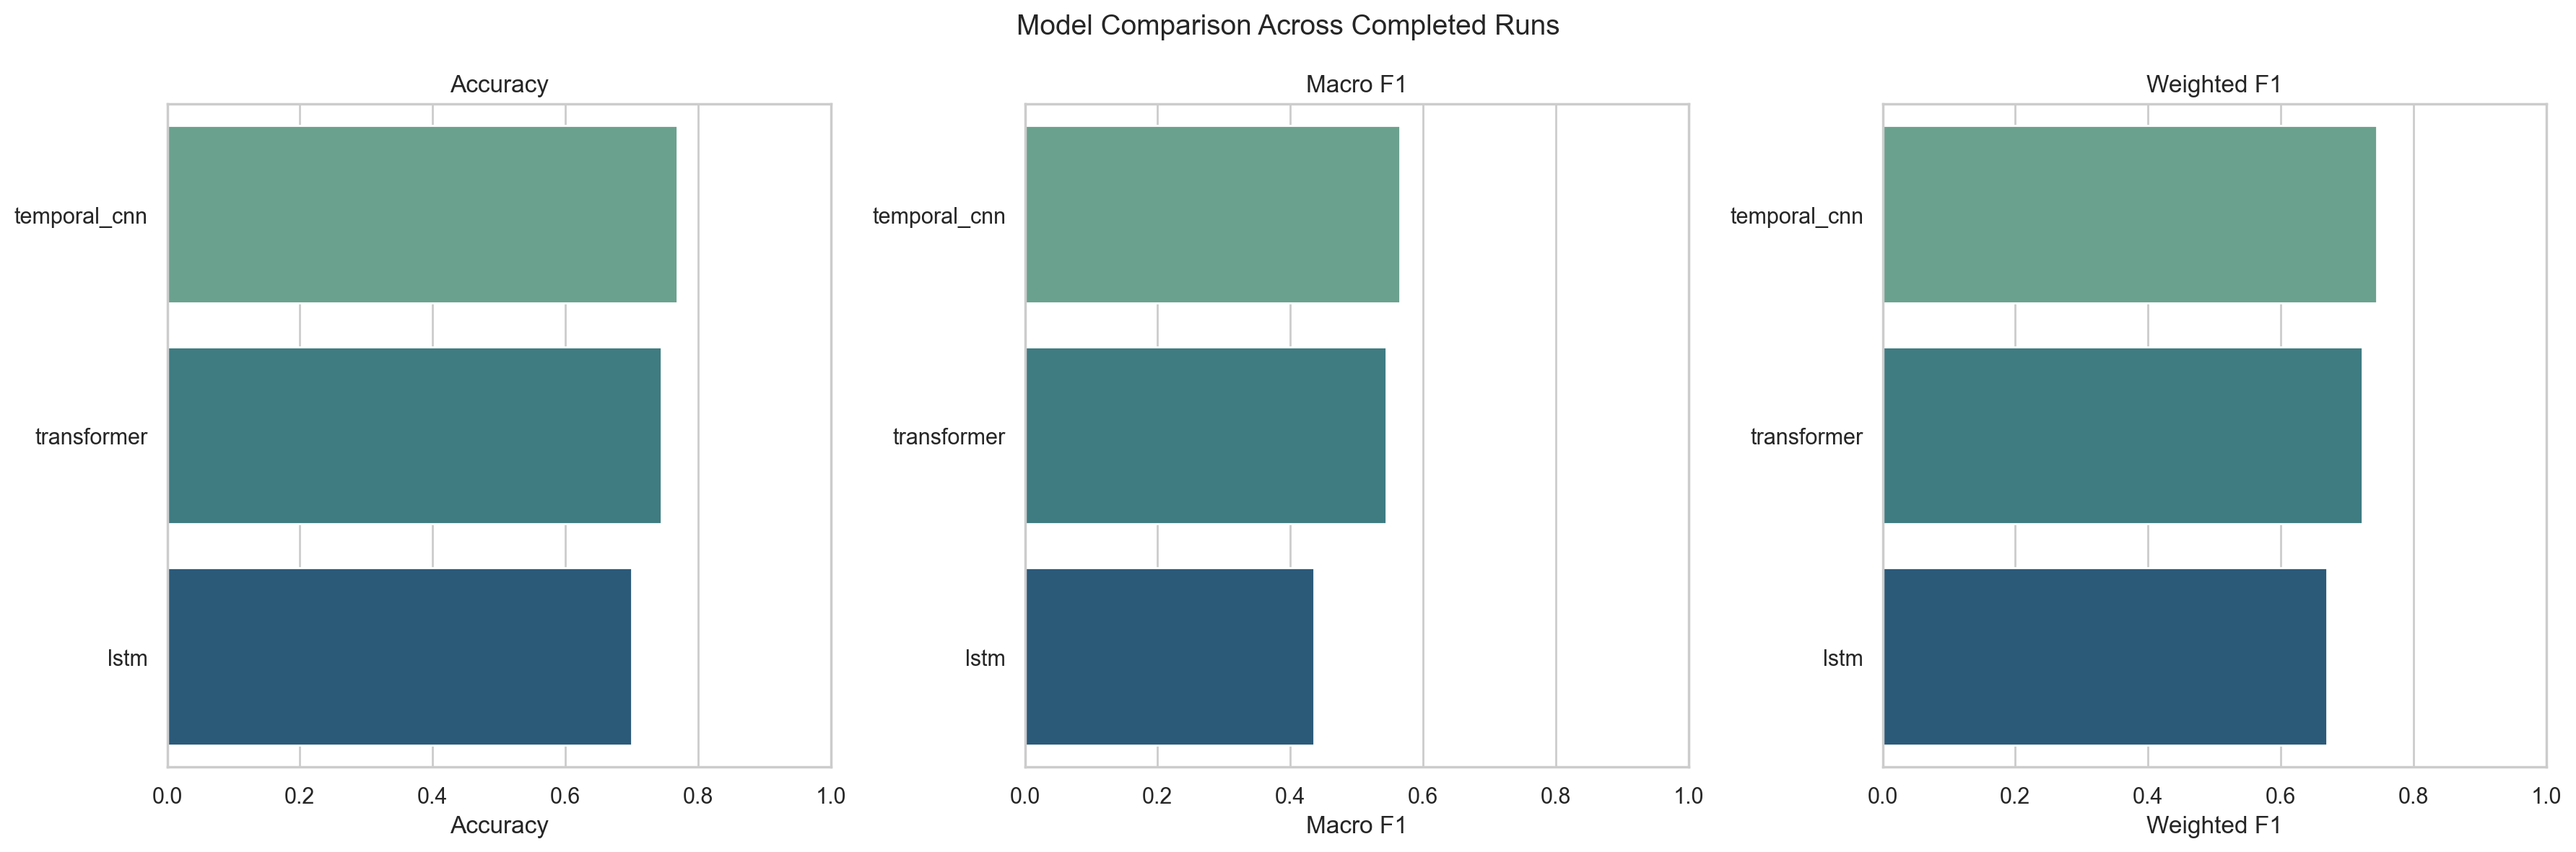
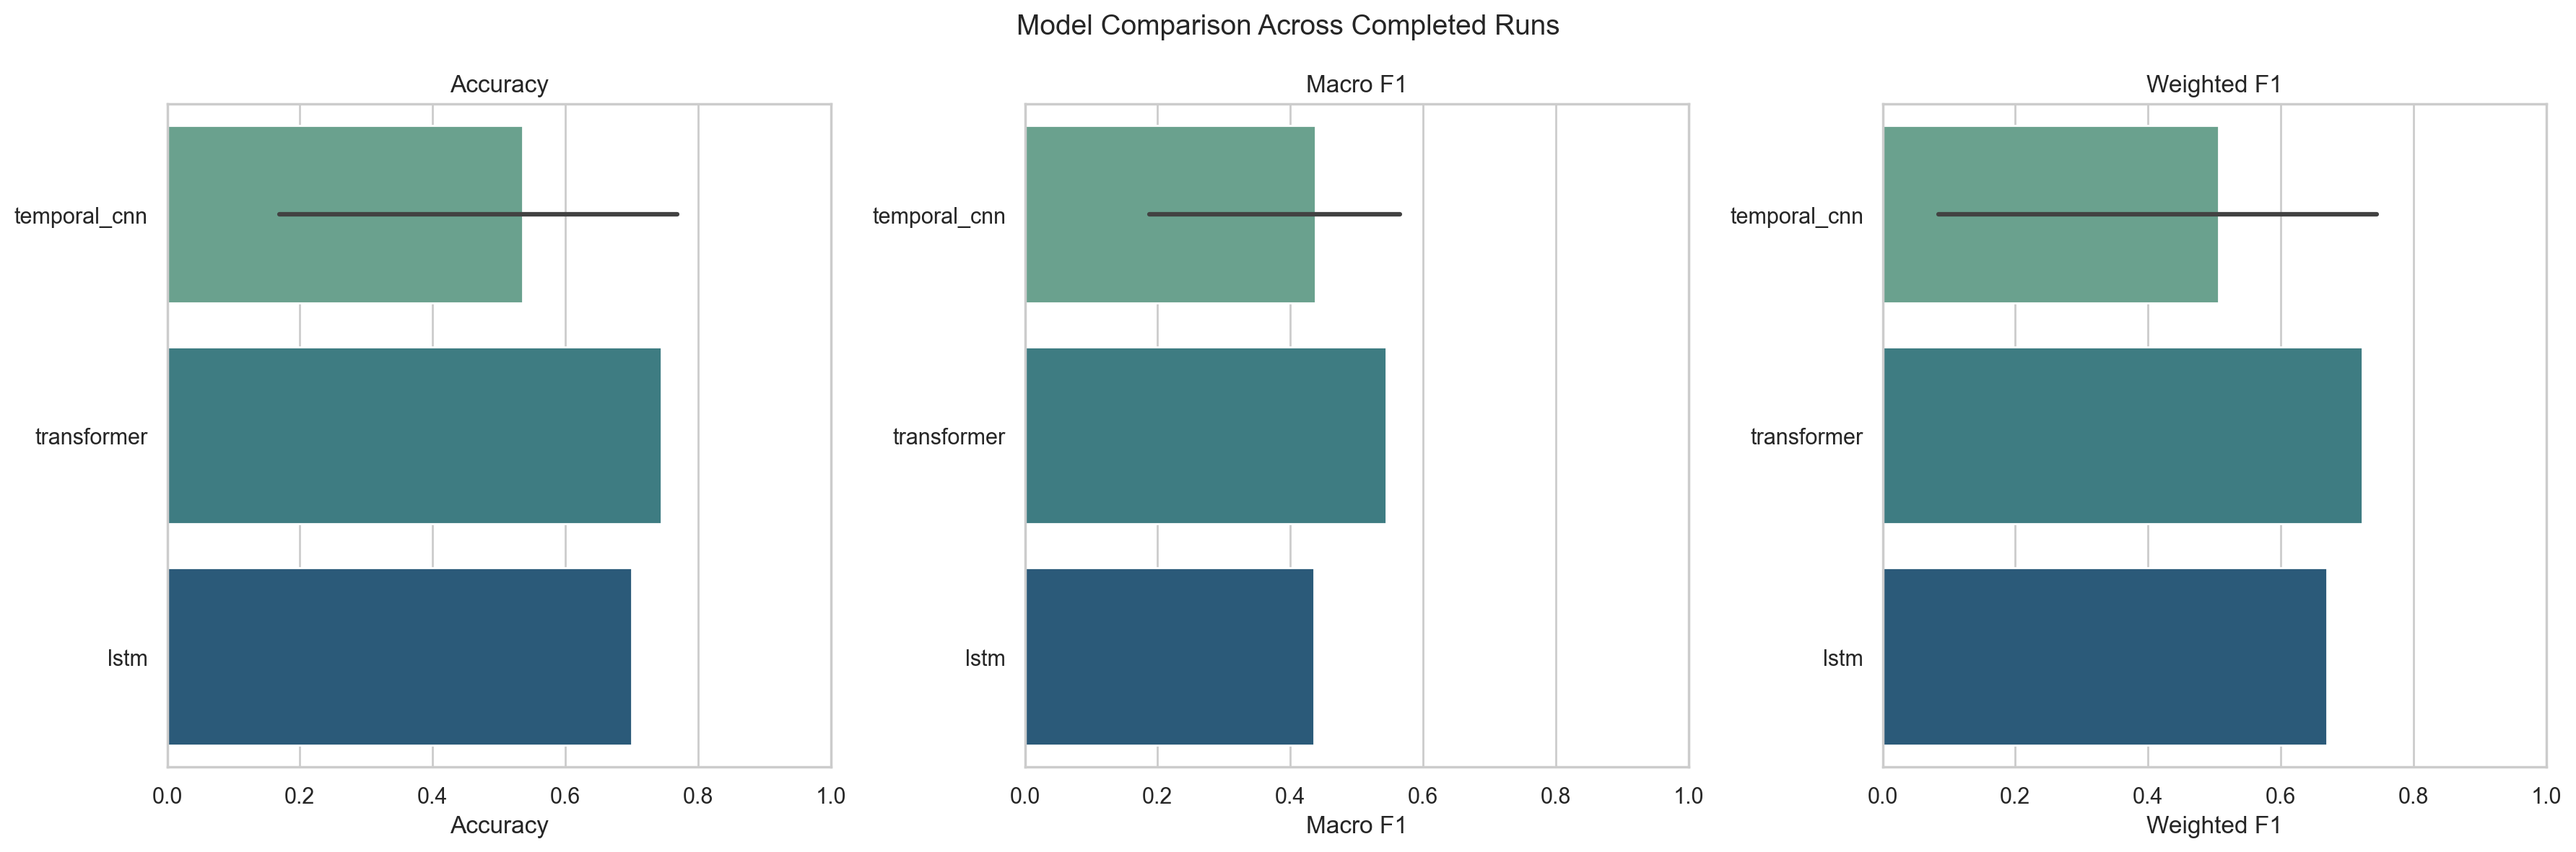
ordinal loss

Changed region(s): [[0.7466, 0.1219, 0.9333, 0.3658], [0.1244, 0.1219, 0.28, 0.3658], [0.4355, 0.1524, 0.56, 0.3658]]

diff --git a/src/paper_repro_train.py b/src/paper_repro_train.py
@@ -40,6 +40,27 @@ class FocalLoss(nn.Module):
         return focal.mean()
 
 
+class OrdinalEMDLoss(nn.Module):
+    """Ordinal loss via squared CDF distance between predicted and target classes."""
+
+    def __init__(self, *, weight: torch.Tensor | None = None) -> None:
+        super().__init__()
+        if weight is None:
+            self.register_buffer("weight", None, persistent=False)
+        else:
+            self.register_buffer("weight", weight.float(), persistent=False)
+
+    def forward(self, logits: torch.Tensor, targets: torch.Tensor) -> torch.Tensor:
+        probs = torch.softmax(logits, dim=1)
+        pred_cdf = torch.cumsum(probs, dim=1)
+        target_one_hot = F.one_hot(targets, num_classes=logits.shape[1]).float()
+        target_cdf = torch.cumsum(target_one_hot, dim=1)
+        loss_per_sample = torch.mean((pred_cdf - target_cdf) ** 2, dim=1)
+        if self.weight is not None:
+            loss_per_sample = loss_per_sample * self.weight[targets]
+        return loss_per_sample.mean()
+
+
 def compute_class_weights(y: np.ndarray) -> np.ndarray:
     """Compute inverse-frequency class weights normalized to mean 1."""
     class_counts = np.bincount(y.astype(np.int64))
@@ -72,6 +93,8 @@ def build_loss(
         return nn.CrossEntropyLoss(weight=weight_tensor), class_weights.tolist()
     if loss_name == "focal":
         return FocalLoss(gamma=focal_gamma, weight=weight_tensor), class_weights.tolist()
+    if loss_name == "ordinal":
+        return OrdinalEMDLoss(weight=weight_tensor), class_weights.tolist()
     raise ValueError(f"Unknown loss_name: {loss_name}")
 
 

diff --git a/tests/test_paper_repro_pipeline.py b/tests/test_paper_repro_pipeline.py
@@ -148,7 +148,7 @@ def test_model_factory_output_shapes() -> None:
     assert transformer_out.shape == (2, 4)
 
 
-def test_loss_factory_builds_weighted_and_focal_losses() -> None:
+def test_loss_factory_builds_weighted_focal_and_ordinal_losses() -> None:
     import torch
 
     y_train = np.array([0, 0, 1, 2, 2, 2, 3], dtype=np.int64)
@@ -177,6 +177,15 @@ def test_loss_factory_builds_weighted_and_focal_losses() -> None:
     assert focal_loss.__class__.__name__ == "FocalLoss"
     assert focal_weights is not None
 
+    ordinal_loss, ordinal_weights = build_loss(
+        y_train,
+        loss_name="ordinal",
+        focal_gamma=2.0,
+        device=torch.device("cpu"),
+    )
+    assert ordinal_loss.__class__.__name__ == "OrdinalEMDLoss"
+    assert ordinal_weights is not None
+
 
 def test_resolve_output_dir_uses_loss_specific_default_paths() -> None:
     assert resolve_output_dir(
@@ -197,3 +206,9 @@ def test_resolve_output_dir_uses_loss_specific_default_paths() -> None:
         loss_name="focal",
         focal_gamma=1.5,
     ) == Path("outputs/transformer_focal_g1p5")
+    assert resolve_output_dir(
+        None,
+        model_name="lstm",
+        loss_name="ordinal",
+        focal_gamma=2.0,
+    ) == Path("outputs/lstm_ordinal")

diff --git a/main.py b/main.py
@@ -52,6 +52,8 @@ def _format_loss_suffix(loss_name: str, focal_gamma: float) -> str:
         return "cross_entropy"
     if loss_name == "weighted_cross_entropy":
         return "weighted_cross_entropy"
+    if loss_name == "ordinal":
+        return "ordinal"
     if loss_name == "focal":
         gamma_str = str(focal_gamma).replace(".", "p")
         return f"focal_g{gamma_str}"
@@ -129,7 +131,7 @@ def build_parser() -> argparse.ArgumentParser:
     parser.add_argument("--patience", type=int, default=50)
     parser.add_argument(
         "--loss",
-        choices=["cross_entropy", "weighted_cross_entropy", "focal"],
+        choices=["cross_entropy", "weighted_cross_entropy", "focal", "ordinal"],
         default="cross_entropy",
     )
     parser.add_argument("--focal_gamma", type=float, default=2.0)

diff --git a/outputs/visualizations/temporal_cnn_weighted_ce/report.md b/outputs/visualizations/temporal_cnn_weighted_ce/report.md
@@ -1,0 +1,23 @@
+# temporal_cnn
+
+- Run folder: `temporal_cnn_weighted_ce`
+- Metrics file: `outputs\temporal_cnn_weighted_ce\metrics.json`
+- Accuracy: 0.6708
+- Macro F1: 0.5592
+- Weighted F1: 0.6909
+- Best epoch: 60
+
+## Classification Report
+
+```text
+              precision    recall  f1-score   support
+
+           0       0.31      0.57      0.40        35
+           1       0.47      0.63      0.54       221
+           2       0.88      0.68      0.76       847
+           3       0.41      0.75      0.53       118
+
+    accuracy                           0.67      1221
+   macro avg       0.52      0.66      0.56      1221
+weighted avg       0.75      0.67      0.69      1221
+```

diff --git a/outputs/visualizations/temporal_cnn_focal/report.md b/outputs/visualizations/temporal_cnn_focal/report.md
@@ -1,0 +1,23 @@
+# temporal_cnn
+
+- Run folder: `temporal_cnn_focal`
+- Metrics file: `outputs\temporal_cnn_focal\metrics.json`
+- Accuracy: 0.1687
+- Macro F1: 0.1881
+- Weighted F1: 0.0847
+- Best epoch: 26
+
+## Classification Report
+
+```text
+              precision    recall  f1-score   support
+
+           0       0.11      0.77      0.20        35
+           1       0.27      0.34      0.30       221
+           2       0.00      0.00      0.00       847
+           3       0.15      0.87      0.25       118
+
+    accuracy                           0.17      1221
+   macro avg       0.13      0.50      0.19      1221
+weighted avg       0.07      0.17      0.08      1221
+```
